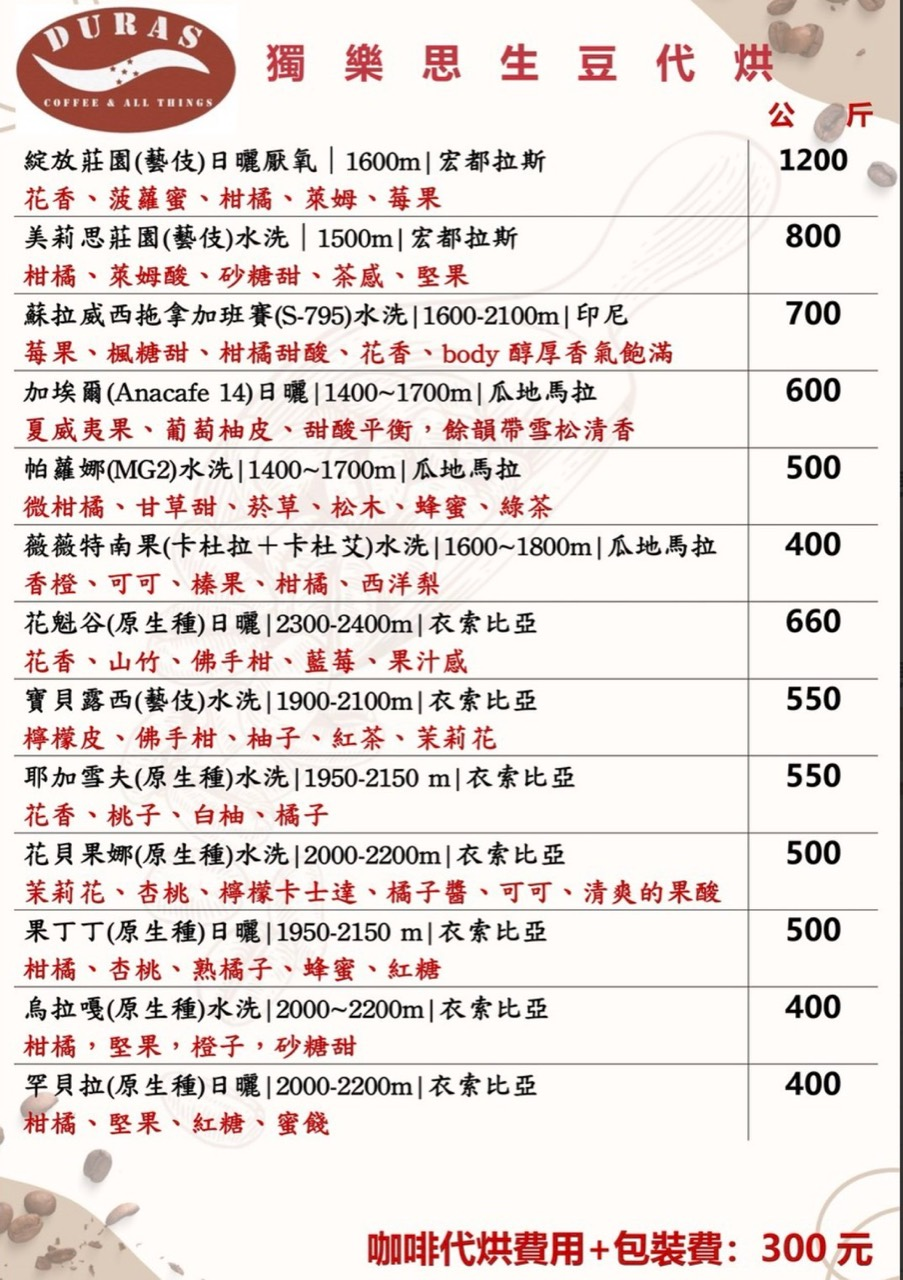
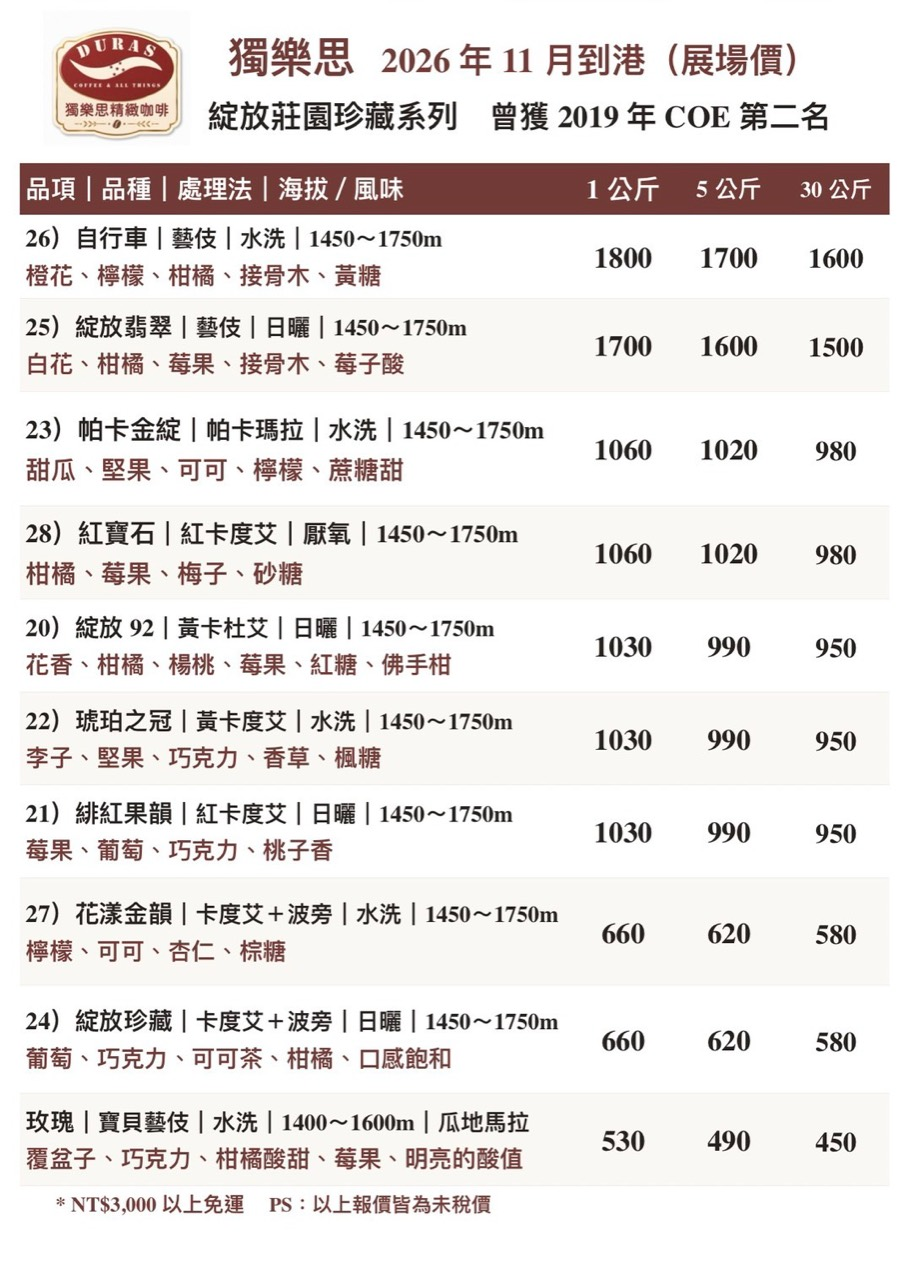
Expose the November Taiwan menu from the original entry and image URLs

diff --git a/index.html b/index.html
@@ -1,4 +1,18 @@
 <!doctype html>
 <html lang="zh-Hant"><head><meta charset="utf-8"><meta name="viewport" content="width=device-width,initial-scale=1"><title>DURAS 精品咖啡｜台灣・中國大陸</title><meta name="description" content="DURAS 精品咖啡官方入口。台灣獨樂思與大陸龍津壕，探索精品熟豆、風味選豆、品牌服務與社群。"><meta name="theme-color" content="#6b2832"><meta property="og:type" content="website"><meta property="og:title" content="DURAS｜Coffee & All Things"><meta property="og:description" content="一杯咖啡，連結不同的日常。台灣與中國大陸官方網站入口。"><meta property="og:image" content="https://xieyaozhong.github.io/DURAS/tw/assets/coffee-hero.jpg"><meta property="og:url" content="https://xieyaozhong.github.io/DURAS/"><meta name="twitter:card" content="summary_large_image"><link rel="canonical" href="https://xieyaozhong.github.io/DURAS/"><link rel="alternate" hreflang="x-default" href="https://xieyaozhong.github.io/DURAS/"><link rel="alternate" hreflang="zh-Hant" href="https://xieyaozhong.github.io/DURAS/tw/"><link rel="alternate" hreflang="zh-Hans" href="https://xieyaozhong.github.io/DURAS/cn/"><link rel="icon" href="tw/favicon.svg"><style>
 *{box-sizing:border-box}body{margin:0;background:#f7f4ee;color:#302822;font:15px/1.8 Arial,'Microsoft JhengHei','Microsoft YaHei',sans-serif}main{min-height:100svh;display:grid;grid-template-columns:1.05fr 1fr}.visual{min-height:650px;position:relative;color:#f6ecd9;display:flex;flex-direction:column;justify-content:space-between;padding:54px 58px;background:#201c18;overflow:hidden}.visual img{position:absolute;inset:0;object-fit:cover;object-position:64% center;width:100%;height:100%;opacity:.65}.visual:after{content:'';position:absolute;inset:0;background:linear-gradient(180deg,#12100e40,#12100e99)}.visual>*:not(img){position:relative;z-index:1}.wordmark{font:48px Georgia;letter-spacing:.16em}.visual small{display:block;font-size:10px;letter-spacing:.19em;margin-top:10px}.visual h1{font:42px/1.6 Georgia,'SimSun',serif;letter-spacing:.04em;font-weight:400;margin:0 0 23px}.visual p{font:italic 20px/1.6 Georgia;color:#d9c4a3}.caption{font-size:9px;letter-spacing:.17em;border-top:1px solid #e6d6c23b;padding-top:20px}.selection{padding:75px 64px 35px;display:flex;flex-direction:column;justify-content:center}.overline{font-size:10px;letter-spacing:.2em;color:#83513f}.selection h2{font:35px/1.5 Georgia,'SimSun',serif;font-weight:400;margin:15px 0}.lead{color:#756858;font-size:14px;line-height:1.9;margin:0 0 38px;max-width:390px}.region-card{position:relative;display:block;text-decoration:none;color:inherit;border-top:1px solid #d6cbbc;padding:28px 0;transition:padding .2s}.region-card:last-of-type{border-bottom:1px solid #d6cbbc}.region-card:hover{padding-left:14px}.region-card small{font-size:10px;letter-spacing:.15em;color:#8f7353}.region-card h3{font:28px/1.5 Georgia,'SimSun',serif;font-weight:400;margin:10px 0 8px}.region-card p{font-size:13px;color:#756858;margin:0}.region-card .arrow{position:absolute;right:0;top:43px;width:43px;height:43px;border:1px solid #c5b69f;border-radius:50%;display:grid;place-items:center;color:#6b2832;font-size:22px}.region-card:hover .arrow{background:#6b2832;color:#f7ecd8}.local{margin-top:13px;font-size:10px;color:#958470;letter-spacing:.06em}.selection footer{margin-top:45px;font-size:10px;color:#91836e;letter-spacing:.07em}:focus-visible{outline:2px solid #a77b46;outline-offset:7px}@media(max-width:1000px){.visual{padding:45px 35px}.selection{padding:55px 35px 30px}.visual h1{font-size:35px}.selection h2{font-size:30px}.region-card h3{font-size:25px}.region-card p{font-size:12px}}@media(max-width:650px){main{grid-template-columns:1fr}.visual{min-height:400px;padding:32px 28px}.visual img{object-position:60% center}.wordmark{font-size:37px}.visual h1{font-size:31px;line-height:1.6;margin-top:55px}.visual p{font-size:17px}.caption{font-size:8px}.selection{padding:45px 28px 30px}.selection h2{font-size:31px}.lead{font-size:14px;margin-bottom:30px}.region-card{padding:27px 0}.region-card h3{font-size:27px}.region-card p{font-size:13px}.selection footer{margin-top:35px}.local{font-size:11px}.region-card:hover{padding-left:0}}@media(prefers-reduced-motion:reduce){*{transition:none!important}}
-</style></head><body><main><section class="visual" aria-label="DURAS 品牌介紹"><img src="tw/assets/coffee-hero.jpg" alt="咖啡情境攝影" fetchpriority="high"><div><div class="wordmark">DURAS</div><small>COFFEE & ALL THINGS</small></div><div><h1>一杯咖啡，<br>連結不同的日常。</h1><p>Coffee. Character. Connection.</p></div><div class="caption">ENJOY COFFEE. ENJOY LIFE.</div></section><section class="selection"><div class="overline">CHOOSE YOUR REGION</div><h2>你的咖啡旅程，<br>從這裡開始。</h2><p class="lead">選擇所在地區，探索當地咖啡豆單、品牌服務與官方社群入口。</p><a class="region-card" href="tw/index.html"><small>01 / TAIWAN</small><h3>台灣・獨樂思</h3><p>精品熟豆・耳掛・生豆代烘</p><div class="local">繁體中文 / TWD</div><span class="arrow" aria-hidden="true">↗</span></a><a class="region-card" href="cn/index.html" lang="zh-Hans"><small>02 / MAINLAND CHINA</small><h3>中国大陆・龙津壕</h3><p>精品熟豆・咖啡采购・品牌合作</p><div class="local">简体中文 / CNY</div><span class="arrow" aria-hidden="true">↗</span></a><footer><a href="our-story/" style="display:inline-block;color:#6b2832;font-size:14px;text-underline-offset:4px;padding:8px 0">讀 DURAS 品牌故事：好咖啡，想分給你。 ↗</a></footer></section></main></body></html>
+.season-menu {
+  align-self: flex-start;
+  display: inline-flex;
+  align-items: center;
+  gap: .6em;
+  min-height: 44px;
+  margin: -12px 0 14px;
+  color: #6b2832;
+  font-size: 14px;
+  text-underline-offset: 4px;
+}
+.season-menu:hover { text-decoration-thickness: 2px; }
+</style></head><body><main><section class="visual" aria-label="DURAS 品牌介紹"><img src="tw/assets/coffee-hero.jpg" alt="咖啡情境攝影" fetchpriority="high"><div><div class="wordmark">DURAS</div><small>COFFEE & ALL THINGS</small></div><div><h1>一杯咖啡，<br>連結不同的日常。</h1><p>Coffee. Character. Connection.</p></div><div class="caption">ENJOY COFFEE. ENJOY LIFE.</div></section><section class="selection"><div class="overline">CHOOSE YOUR REGION</div><h2>你的咖啡旅程，<br>從這裡開始。</h2><p class="lead">選擇所在地區，探索當地咖啡豆單、品牌服務與官方社群入口。</p><a class="region-card" href="tw/index.html"><small>01 / TAIWAN</small><h3>台灣・獨樂思</h3><p>精品熟豆・耳掛・生豆代烘</p><div class="local">繁體中文 / TWD</div><span class="arrow" aria-hidden="true">↗</span></a>
+<a class="season-menu" href="tw/coffee.html?category=green">台灣 11 月生豆展場豆單 <span aria-hidden="true">↗</span></a>
+<a class="region-card" href="cn/index.html" lang="zh-Hans"><small>02 / MAINLAND CHINA</small><h3>中国大陆・龙津壕</h3><p>精品熟豆・咖啡采购・品牌合作</p><div class="local">简体中文 / CNY</div><span class="arrow" aria-hidden="true">↗</span></a><footer><a href="our-story/" style="display:inline-block;color:#6b2832;font-size:14px;text-underline-offset:4px;padding:8px 0">讀 DURAS 品牌故事：好咖啡，想分給你。 ↗</a></footer></section></main></body></html>
